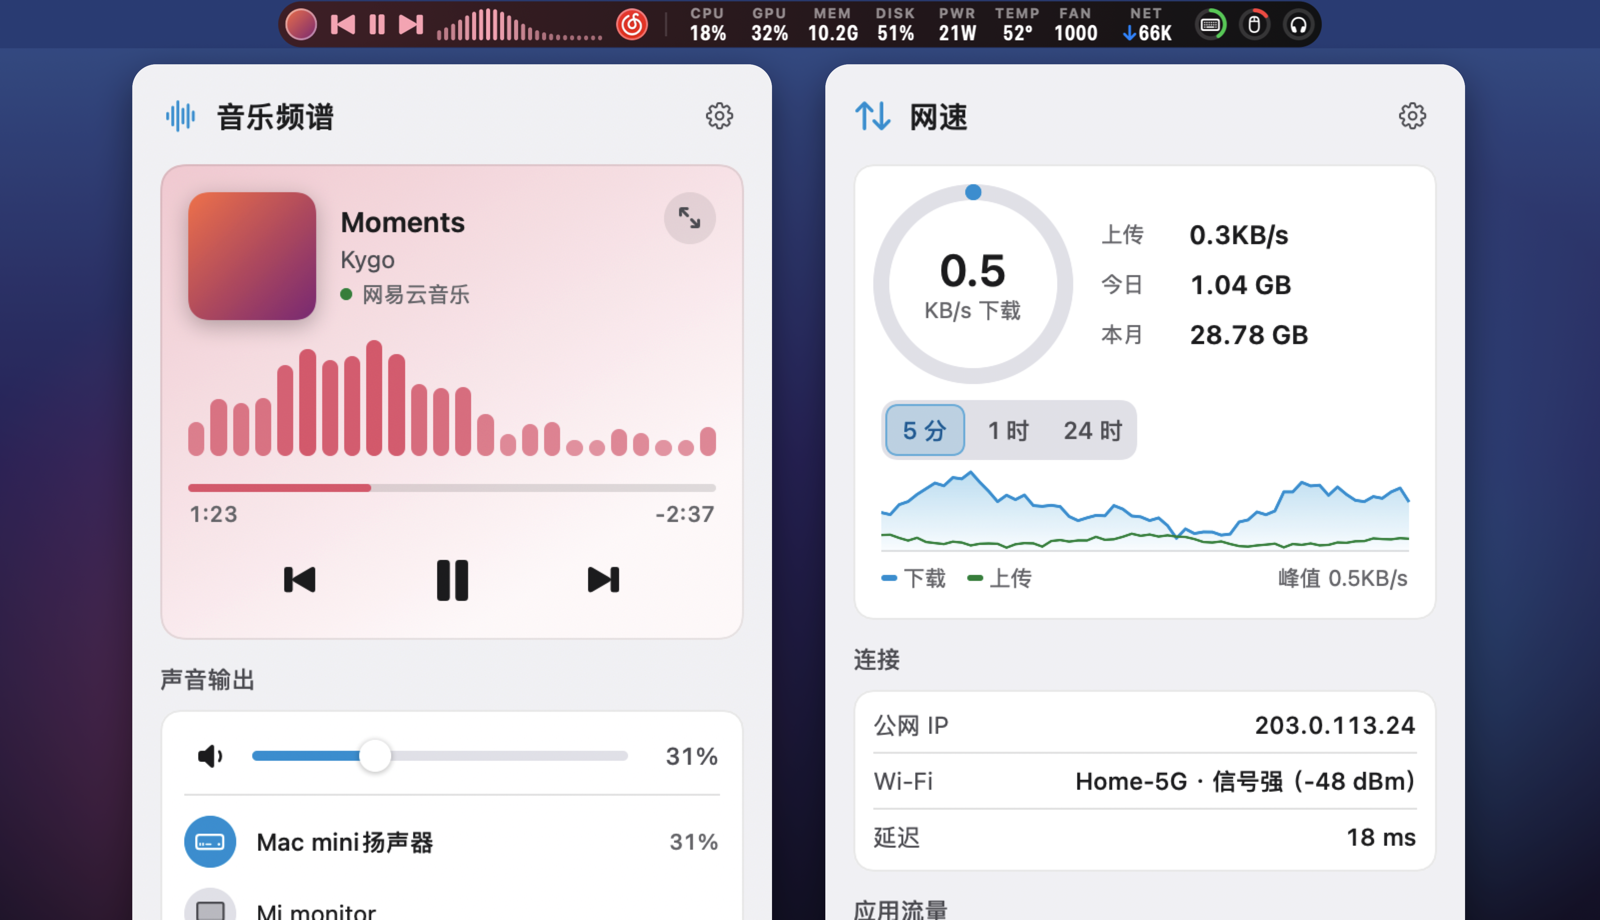
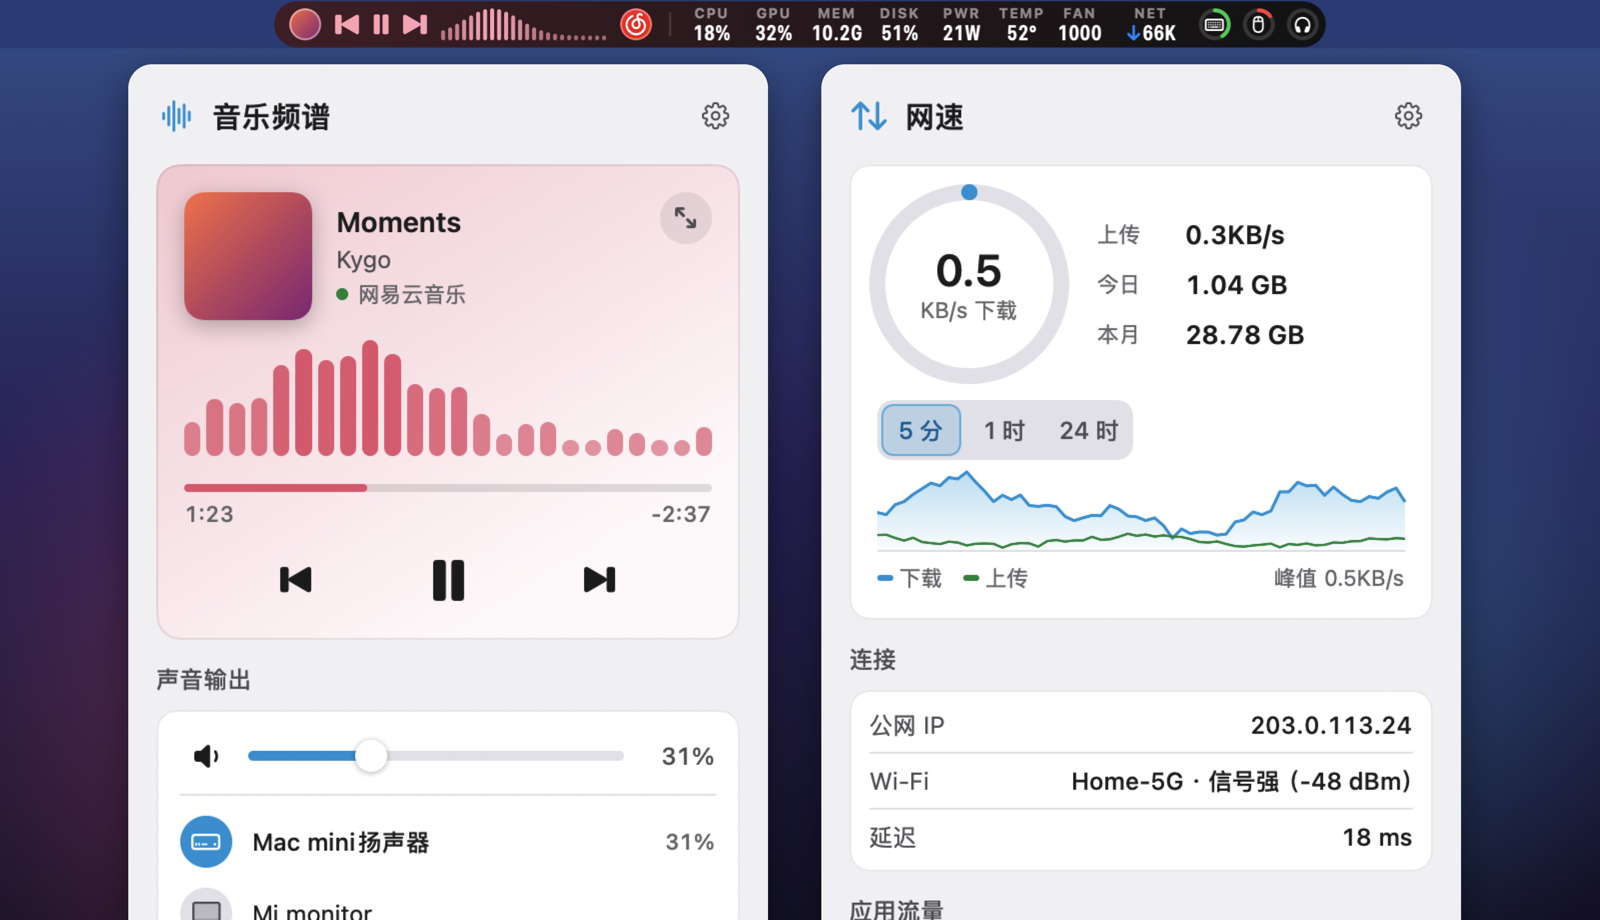
README：灵动岛状态分刘海屏 / 非刘海屏两组，修正封面被裁
- 两组各 7 种状态，按显示长度从短到长排列
- 离屏渲染先定高度再取宽度：之前高度为 0 时两端留白算成 0，胶囊少算 7pt，封面被挤到边缘
- 首图同步重新生成

diff --git a/Render.swift b/Render.swift
@@ -52,6 +52,7 @@ enum RenderTargets {
     expanded.audio = (bars, bars.preferredWidth)
     let tint = bars.tint!
     expanded.backdrop = SpectrumLook(backdrop: .gradient).backdropColors(tint: tint)
+    expanded.frame = NSRect(x: 0, y: 0, width: 10, height: rowHeight)
     let width = expanded.preferredWidth + 20
     let rows: CGFloat = 3
     let bitmap = NSBitmapImageRep(bitmapDataPlanes: nil, pixelsWide: Int(width * scale), pixelsHigh: Int(rowHeight * rows * scale),
@@ -70,7 +71,8 @@ enum RenderTargets {
         NSAppearance(named: .darkAqua)!.performAsCurrentDrawingAppearance { view.draw(view.bounds) }
         NSGraphicsContext.current?.cgContext.restoreGState()
     }
-    expanded.frame = NSRect(x: 0, y: 0, width: expanded.preferredWidth, height: rowHeight)
+    expanded.frame = NSRect(x: 0, y: 0, width: 10, height: rowHeight)   // 先定高度再取宽度
+    expanded.frame.size.width = expanded.preferredWidth
     expanded.layout()
     bars.update(levels, audible: true)
     if let context = NSGraphicsContext.current?.cgContext {
@@ -79,7 +81,7 @@ enum RenderTargets {
         NSAppearance(named: .darkAqua)!.performAsCurrentDrawingAppearance { expanded.draw(expanded.bounds) }
         let origin = bars.convert(NSPoint.zero, to: expanded)   // 频谱在裁切容器里，换算到岛的坐标
         context.translateBy(x: origin.x, y: origin.y)
-        bars.layer?.render(in: context)
+        bars.renderSnapshot(in: context)
         context.restoreGState()
     }
     NSGraphicsContext.restoreGraphicsState()
@@ -138,16 +140,21 @@ enum RenderTargets {
         let all = MetricsIslandView.demoSegments()
         let compact = all.filter { [.cpu, .memory, .temperature, .network].contains($0.metric) }   // 刘海屏机型默认
         let rings = StatusIcons.bluetooth([(symbol: "keyboard", battery: 64), (symbol: "computermouse", battery: 15), (symbol: "headphones", battery: 80)])
-        let states: [(name: String, segments: [(metric: Metric, image: NSImage)], audio: Audio?, trailing: NSImage?, notch: Bool)] = [
-            ("metrics", all, nil, rings, false),
-            ("no-bluetooth", all, nil, nil, false),
-            ("notch", compact, nil, rings, true),
-            ("music", all, .music, rings, false),
-            ("paused", all, .paused, rings, false),
-            ("video", all, .video, rings, false),
-            ("other", all, .other, rings, false),
-            ("music-only", [], .music, nil, false),
-        ]
+        // 两组：刘海屏（默认只留常用指标，左边画刘海）与非刘海屏（全部指标）
+        var states: [(name: String, segments: [(metric: Metric, image: NSImage)], audio: Audio?, trailing: NSImage?, notch: Bool)] = []
+        for notch in [true, false] {
+            let prefix = notch ? "notch" : "desktop"
+            let segments = notch ? compact : all
+            states += [
+                ("\(prefix)-metrics", segments, nil, rings, notch),
+                ("\(prefix)-no-bluetooth", segments, nil, nil, notch),
+                ("\(prefix)-music", segments, .music, rings, notch),
+                ("\(prefix)-paused", segments, .paused, rings, notch),
+                ("\(prefix)-video", segments, .video, rings, notch),
+                ("\(prefix)-other", segments, .other, rings, notch),
+                ("\(prefix)-music-only", [], .music, nil, notch),
+            ]
+        }
         for state in states {
             let view = MetricsIslandView(frame: .zero)
             view.segments = state.segments
@@ -160,7 +167,9 @@ enum RenderTargets {
                 view.audioLeadsWithCircle = b.leadsWithCircle
                 view.backdrop = SpectrumLook(backdrop: .gradient).backdropColors(tint: b.effectiveTint)
             }
-            view.frame = NSRect(x: 0, y: 0, width: view.preferredWidth, height: rowHeight)
+            // 先定高度再取宽度：两端圆形的留白按高度计算，高度为 0 时宽度会少算
+            view.frame = NSRect(x: 0, y: 0, width: 10, height: rowHeight)
+            view.frame.size.width = view.preferredWidth
             view.layout()
             let notchWidth: CGFloat = state.notch ? 190 : 0
             let width = view.preferredWidth + margin * 2 + notchWidth
@@ -185,7 +194,7 @@ enum RenderTargets {
                 if let bars {
                     let origin = bars.convert(NSPoint.zero, to: view)
                     context.translateBy(x: origin.x, y: origin.y)
-                    bars.layer?.render(in: context)
+                    bars.renderSnapshot(in: context)
                 }
                 context.restoreGState()
             }

diff --git a/Spectrum.swift b/Spectrum.swift
@@ -484,6 +484,33 @@ final class SpectrumBarsView: NSView {
         }
     }
 
+    /// 离屏渲染（README 截图）：layer.render(in:) 画圆形裁切的封面会错位，
+    /// 所以先隐藏封面图层渲染其余部分，再按封面图层的位置手动画出封面和描边。
+    func renderSnapshot(in context: CGContext) {
+        let showsArtwork = !artworkLayer.isHidden
+        artworkLayer.isHidden = true
+        layer?.render(in: context)
+        artworkLayer.isHidden = !showsArtwork
+        guard showsArtwork, let content = artworkLayer.contents else { return }
+        let image = content as! CGImage
+        let rect = CGRect(x: artworkLayer.position.x - artworkLayer.bounds.width / 2, y: artworkLayer.position.y - artworkLayer.bounds.height / 2,
+                          width: artworkLayer.bounds.width, height: artworkLayer.bounds.height)
+        let radius = artworkLayer.cornerRadius
+        let path = CGPath(roundedRect: rect, cornerWidth: radius, cornerHeight: radius, transform: nil)
+        context.saveGState()
+        context.addPath(path)
+        context.clip()
+        context.draw(image, in: rect)
+        context.restoreGState()
+        context.saveGState()
+        let inner = rect.insetBy(dx: 0.5, dy: 0.5)
+        context.addPath(CGPath(roundedRect: inner, cornerWidth: max(radius - 0.5, 0), cornerHeight: max(radius - 0.5, 0), transform: nil))
+        context.setStrokeColor(artworkLayer.borderColor ?? NSColor.white.withAlphaComponent(0.45).cgColor)
+        context.setLineWidth(artworkLayer.borderWidth)
+        context.strokePath()
+        context.restoreGState()
+    }
+
     func refresh() {
         update(lastLevels ?? [Float](repeating: 0, count: SpectrumAnalyzer.bandCount), audible: lastAudible)
     }

diff --git a/README.md b/README.md
@@ -21,46 +21,79 @@ Islet 是一个 macOS 菜单栏工具。它把 CPU、内存、网速这些常看
 
 ## 灵动岛
 
-同一枚胶囊，会随着连接的设备、正在出声的程序而变化：
+同一枚胶囊，会随着连接的设备、正在出声的程序而变化。
+
+### 刘海屏 MacBook
+
+菜单栏中间被刘海占掉一块，Islet 第一次运行时只打开 CPU、内存、温度、网速，其余的可以在设置里再打开。
 
 <table>
   <tr>
-    <td width="170" nowrap>平时<br><sub>右侧圆环是蓝牙电量</sub></td>
-    <td><img src="docs/screenshots/island-metrics.png" height="30" alt="平时"></td>
-  </tr>
-  <tr>
     <td width="170" nowrap>没有连接蓝牙设备</td>
-    <td><img src="docs/screenshots/island-no-bluetooth.png" height="30" alt="没有连接蓝牙设备"></td>
-  </tr>
-  <tr>
-    <td width="170" nowrap>刘海屏 MacBook<br><sub>默认只留常用指标</sub></td>
-    <td><img src="docs/screenshots/island-notch.png" height="30" alt="刘海屏 MacBook"></td>
-  </tr>
-  <tr>
-    <td width="170" nowrap>播放音乐<br><sub>颜色取自封面</sub></td>
-    <td><img src="docs/screenshots/island-music.png" height="30" alt="播放音乐"></td>
-  </tr>
-  <tr>
-    <td width="170" nowrap>音乐暂停</td>
-    <td><img src="docs/screenshots/island-paused.png" height="30" alt="音乐暂停"></td>
-  </tr>
-  <tr>
-    <td width="170" nowrap>播放视频<br><sub>只有播放 / 暂停</sub></td>
-    <td><img src="docs/screenshots/island-video.png" height="30" alt="播放视频"></td>
-  </tr>
-  <tr>
-    <td width="170" nowrap>其他程序出声<br><sub>显示程序图标</sub></td>
-    <td><img src="docs/screenshots/island-other.png" height="30" alt="其他程序出声"></td>
+    <td><img src="docs/screenshots/island-notch-no-bluetooth.png" height="30" alt="没有连接蓝牙设备"></td>
   </tr>
   <tr>
     <td width="170" nowrap>关掉全部指标<br><sub>有声音时才出现</sub></td>
-    <td><img src="docs/screenshots/island-music-only.png" height="30" alt="关掉全部指标"></td>
+    <td><img src="docs/screenshots/island-notch-music-only.png" height="30" alt="关掉全部指标"></td>
+  </tr>
+  <tr>
+    <td width="170" nowrap>只显示指标<br><sub>右侧圆环是蓝牙电量</sub></td>
+    <td><img src="docs/screenshots/island-notch-metrics.png" height="30" alt="只显示指标"></td>
+  </tr>
+  <tr>
+    <td width="170" nowrap>其他程序出声<br><sub>显示程序图标</sub></td>
+    <td><img src="docs/screenshots/island-notch-other.png" height="30" alt="其他程序出声"></td>
+  </tr>
+  <tr>
+    <td width="170" nowrap>播放视频<br><sub>只有播放 / 暂停</sub></td>
+    <td><img src="docs/screenshots/island-notch-video.png" height="30" alt="播放视频"></td>
+  </tr>
+  <tr>
+    <td width="170" nowrap>播放音乐<br><sub>颜色取自封面</sub></td>
+    <td><img src="docs/screenshots/island-notch-music.png" height="30" alt="播放音乐"></td>
+  </tr>
+  <tr>
+    <td width="170" nowrap>音乐暂停</td>
+    <td><img src="docs/screenshots/island-notch-paused.png" height="30" alt="音乐暂停"></td>
+  </tr>
+</table>
+
+### 外接显示器和无刘海的 Mac
+
+<table>
+  <tr>
+    <td width="170" nowrap>关掉全部指标<br><sub>有声音时才出现</sub></td>
+    <td><img src="docs/screenshots/island-desktop-music-only.png" height="30" alt="关掉全部指标"></td>
+  </tr>
+  <tr>
+    <td width="170" nowrap>没有连接蓝牙设备</td>
+    <td><img src="docs/screenshots/island-desktop-no-bluetooth.png" height="30" alt="没有连接蓝牙设备"></td>
+  </tr>
+  <tr>
+    <td width="170" nowrap>只显示指标<br><sub>右侧圆环是蓝牙电量</sub></td>
+    <td><img src="docs/screenshots/island-desktop-metrics.png" height="30" alt="只显示指标"></td>
+  </tr>
+  <tr>
+    <td width="170" nowrap>其他程序出声<br><sub>显示程序图标</sub></td>
+    <td><img src="docs/screenshots/island-desktop-other.png" height="30" alt="其他程序出声"></td>
+  </tr>
+  <tr>
+    <td width="170" nowrap>播放视频<br><sub>只有播放 / 暂停</sub></td>
+    <td><img src="docs/screenshots/island-desktop-video.png" height="30" alt="播放视频"></td>
+  </tr>
+  <tr>
+    <td width="170" nowrap>播放音乐<br><sub>颜色取自封面</sub></td>
+    <td><img src="docs/screenshots/island-desktop-music.png" height="30" alt="播放音乐"></td>
+  </tr>
+  <tr>
+    <td width="170" nowrap>音乐暂停</td>
+    <td><img src="docs/screenshots/island-desktop-paused.png" height="30" alt="音乐暂停"></td>
   </tr>
 </table>
 
 - 显示哪些指标、按什么顺序排，都在设置里拖动调整。网速可以只显示上传和下载中较快的一方，CPU、GPU 也可以换成迷你曲线。
 - 蓝牙电量圆环的绿、橙、红分别表示充足、偏低、不足。
-- 刘海屏机型的菜单栏放不下太多东西，Islet 第一次运行时只打开常用的几项，其余的可以在设置里再打开；没有风扇的机型（比如 MacBook Air）默认不显示风扇。
+- 没有风扇的机型（比如 MacBook Air）默认不显示风扇。
 - 岛固定在菜单栏最左侧。有新图标挤进来或者被 ⌘ 拖走，它会自己回到原位（可以关掉）。
 - 胶囊外有一圈细亮边，在深色壁纸上也不会和菜单栏糊在一起。
 
